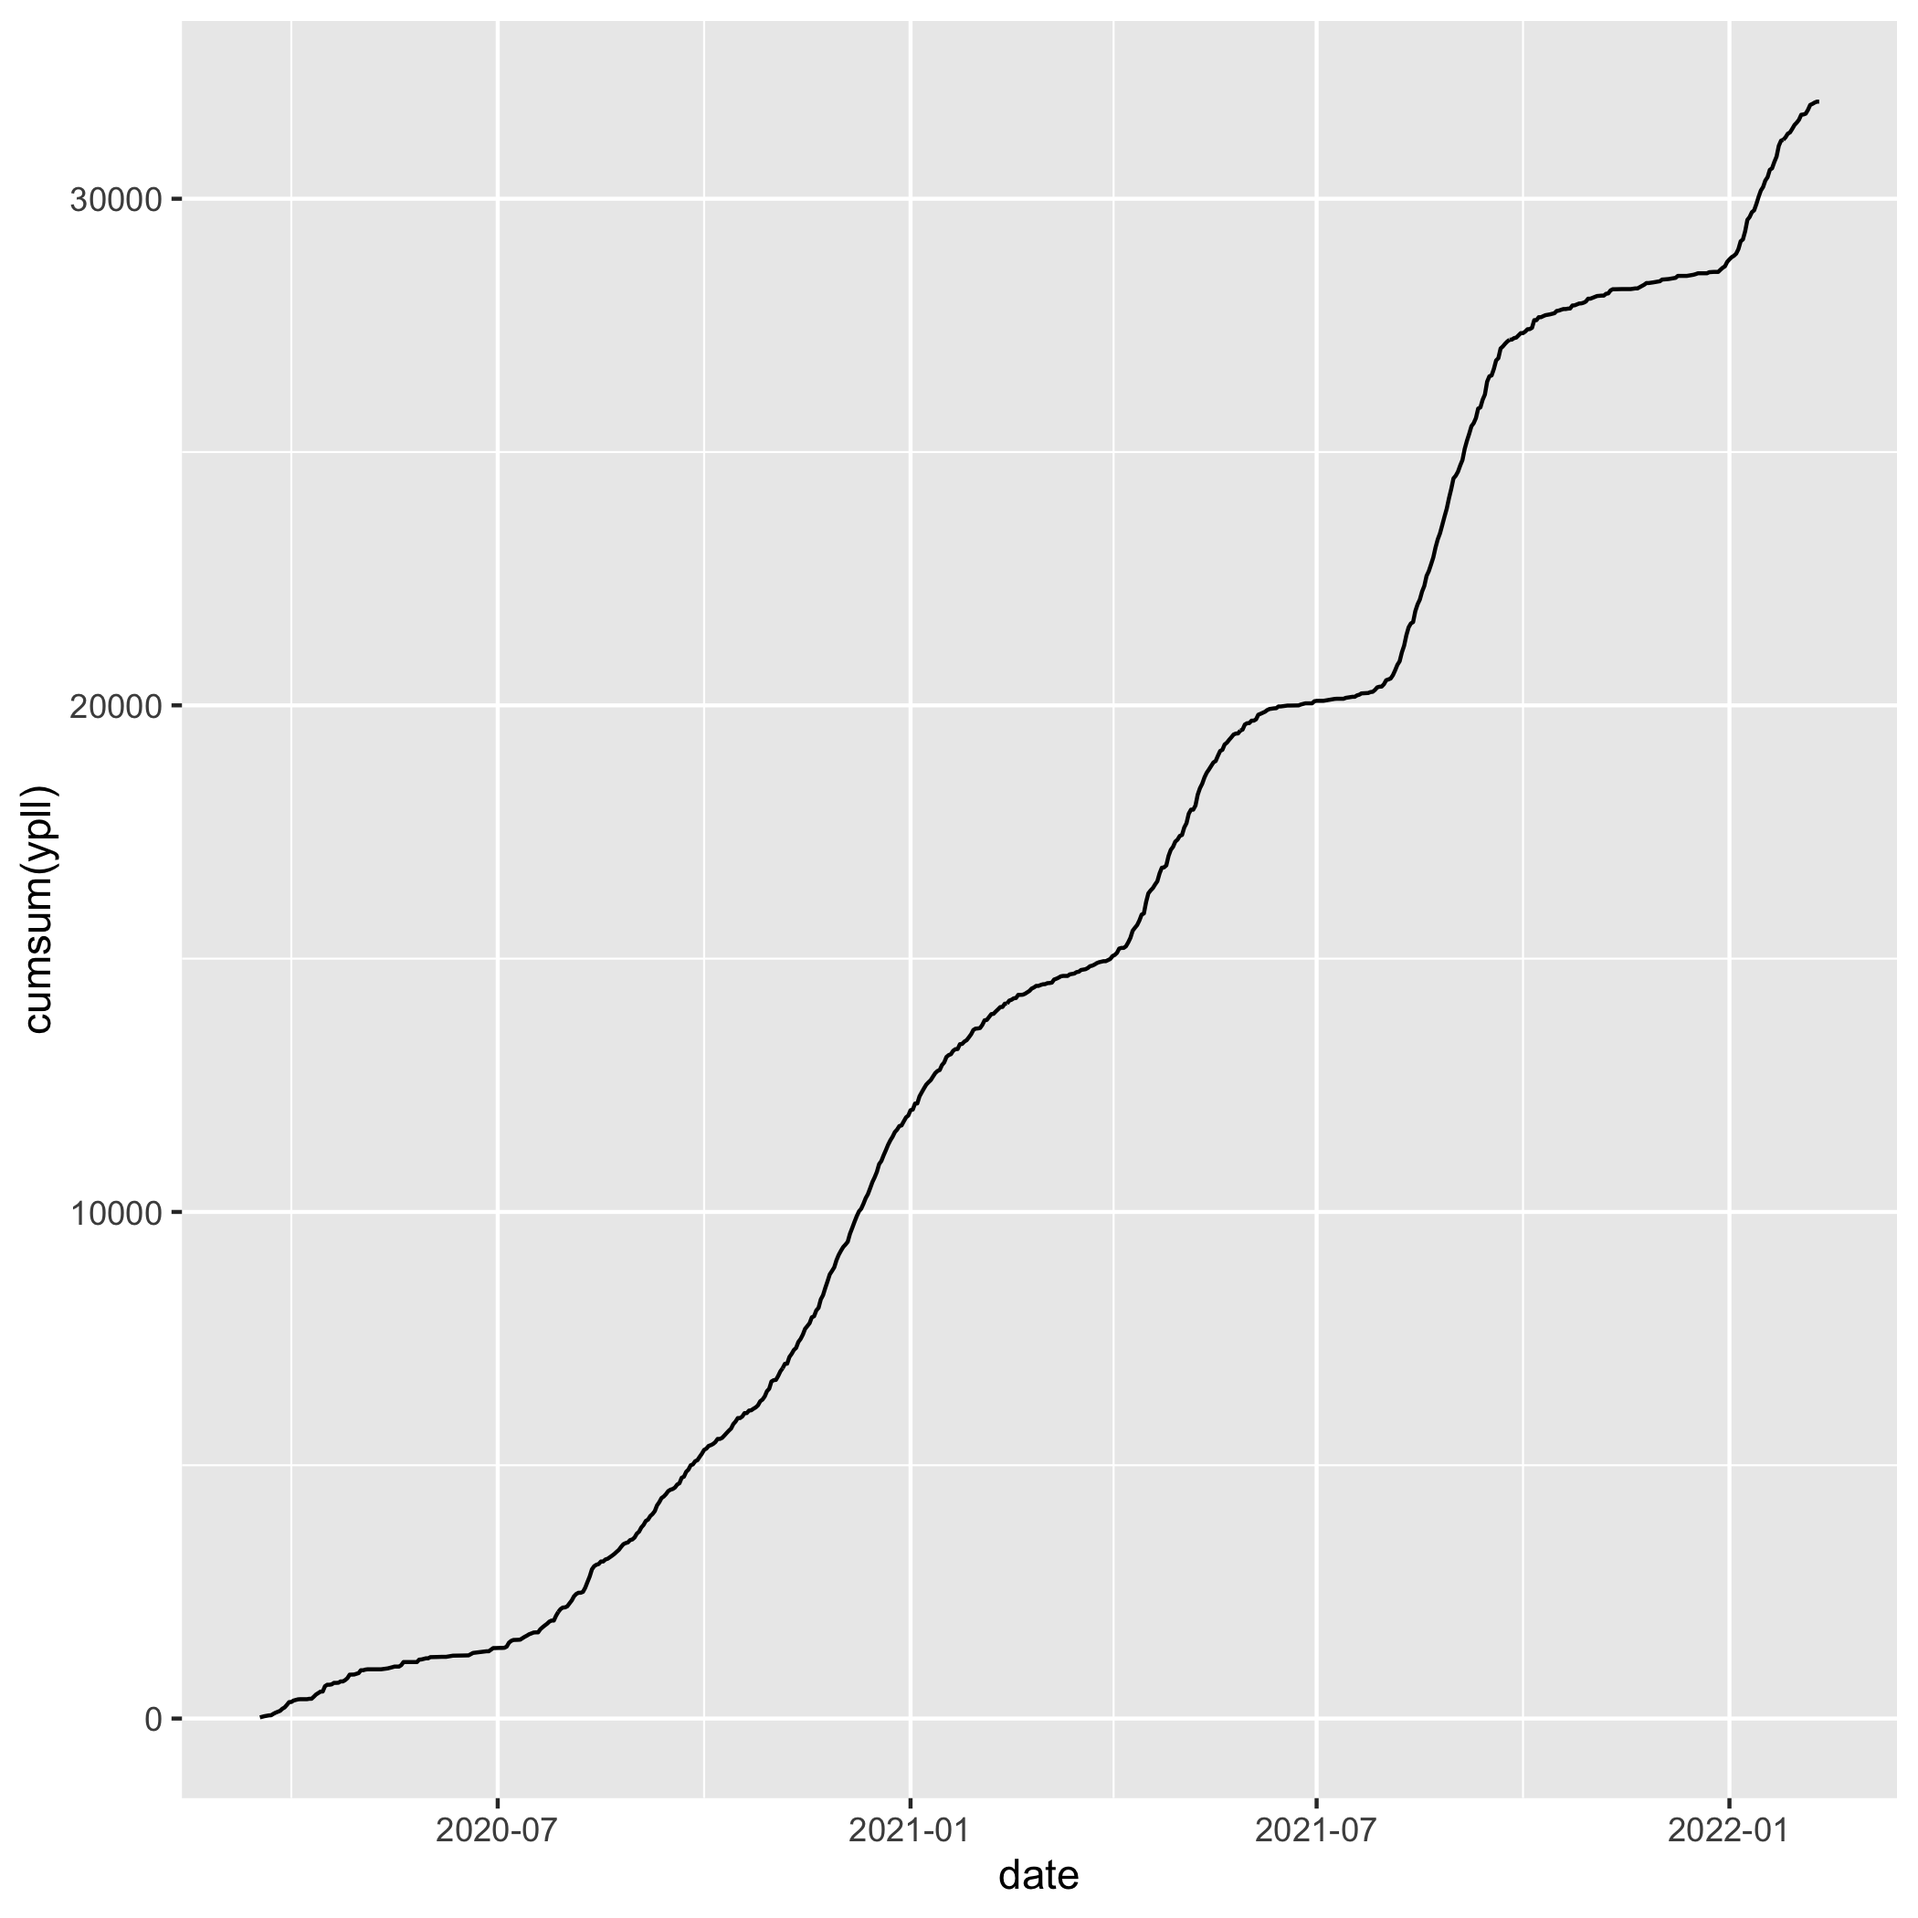
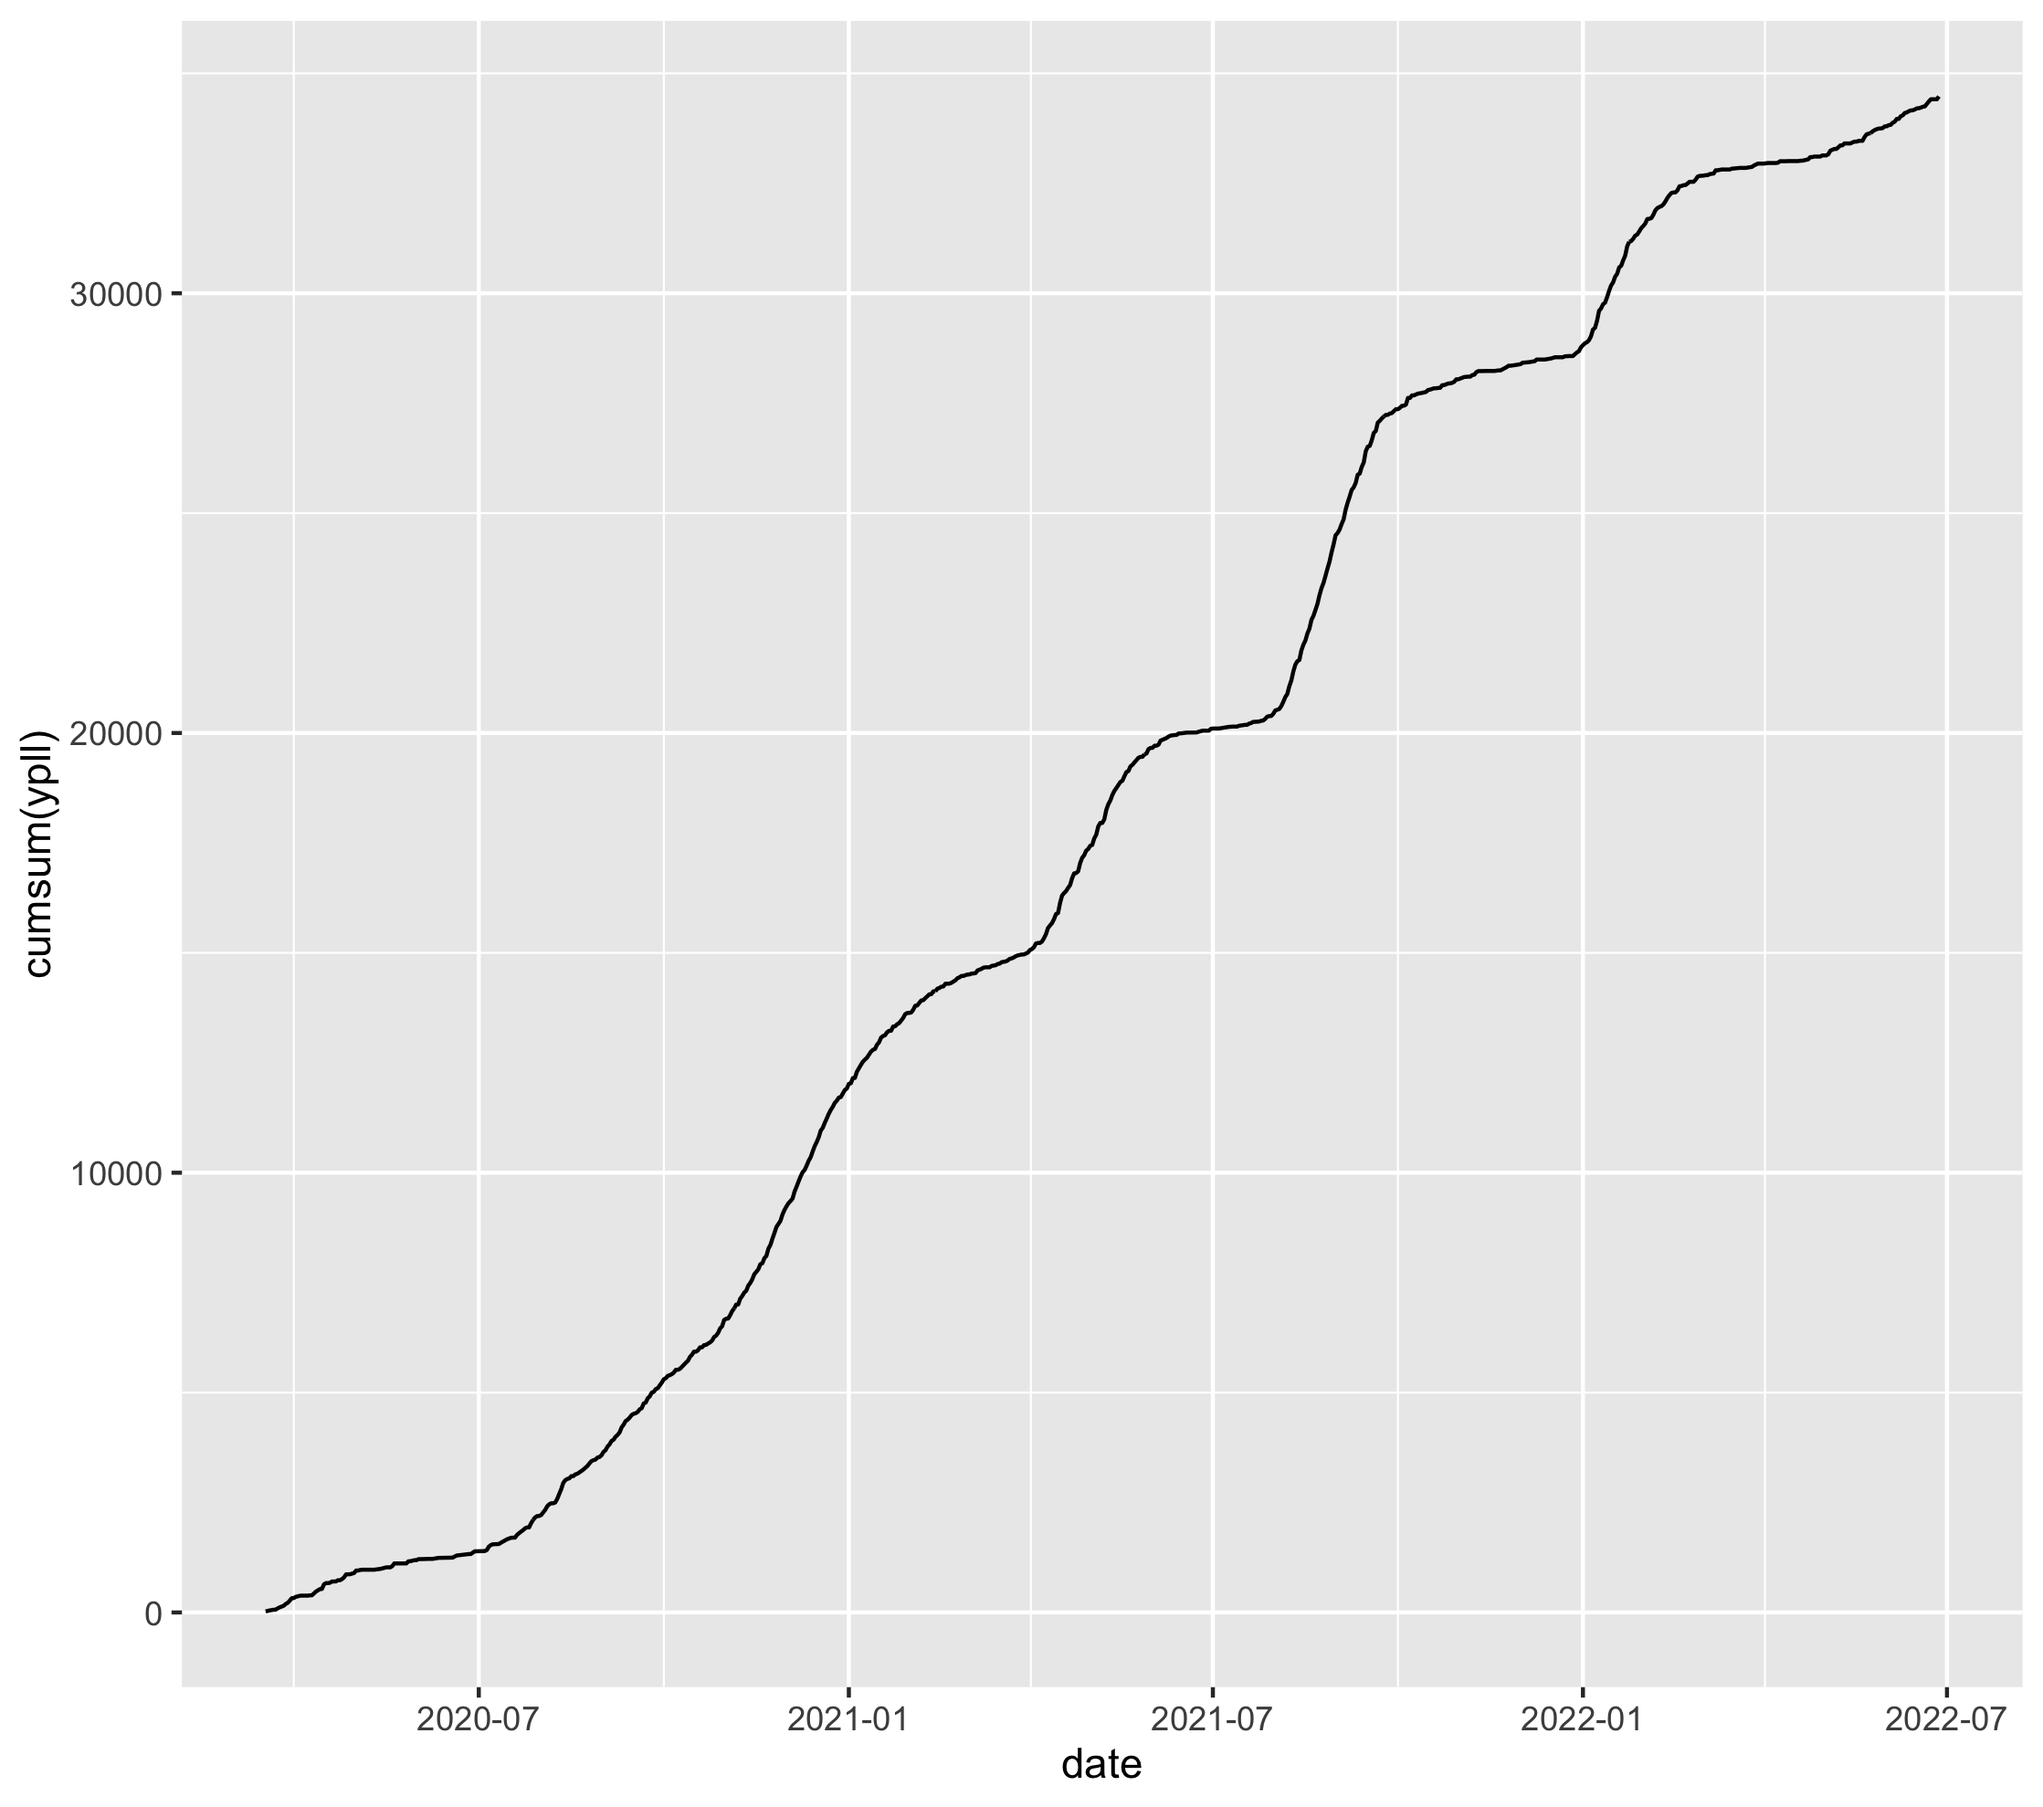
Update plots to July, 2022

diff --git a/README.md b/README.md
@@ -2,7 +2,7 @@
 
 Humberto Ortiz-Zuazaga  
 2021-10-11  
-**Updated:** 2022-02-13
+**Updated:** 2022-07-01
 
 ## Abstract
 
